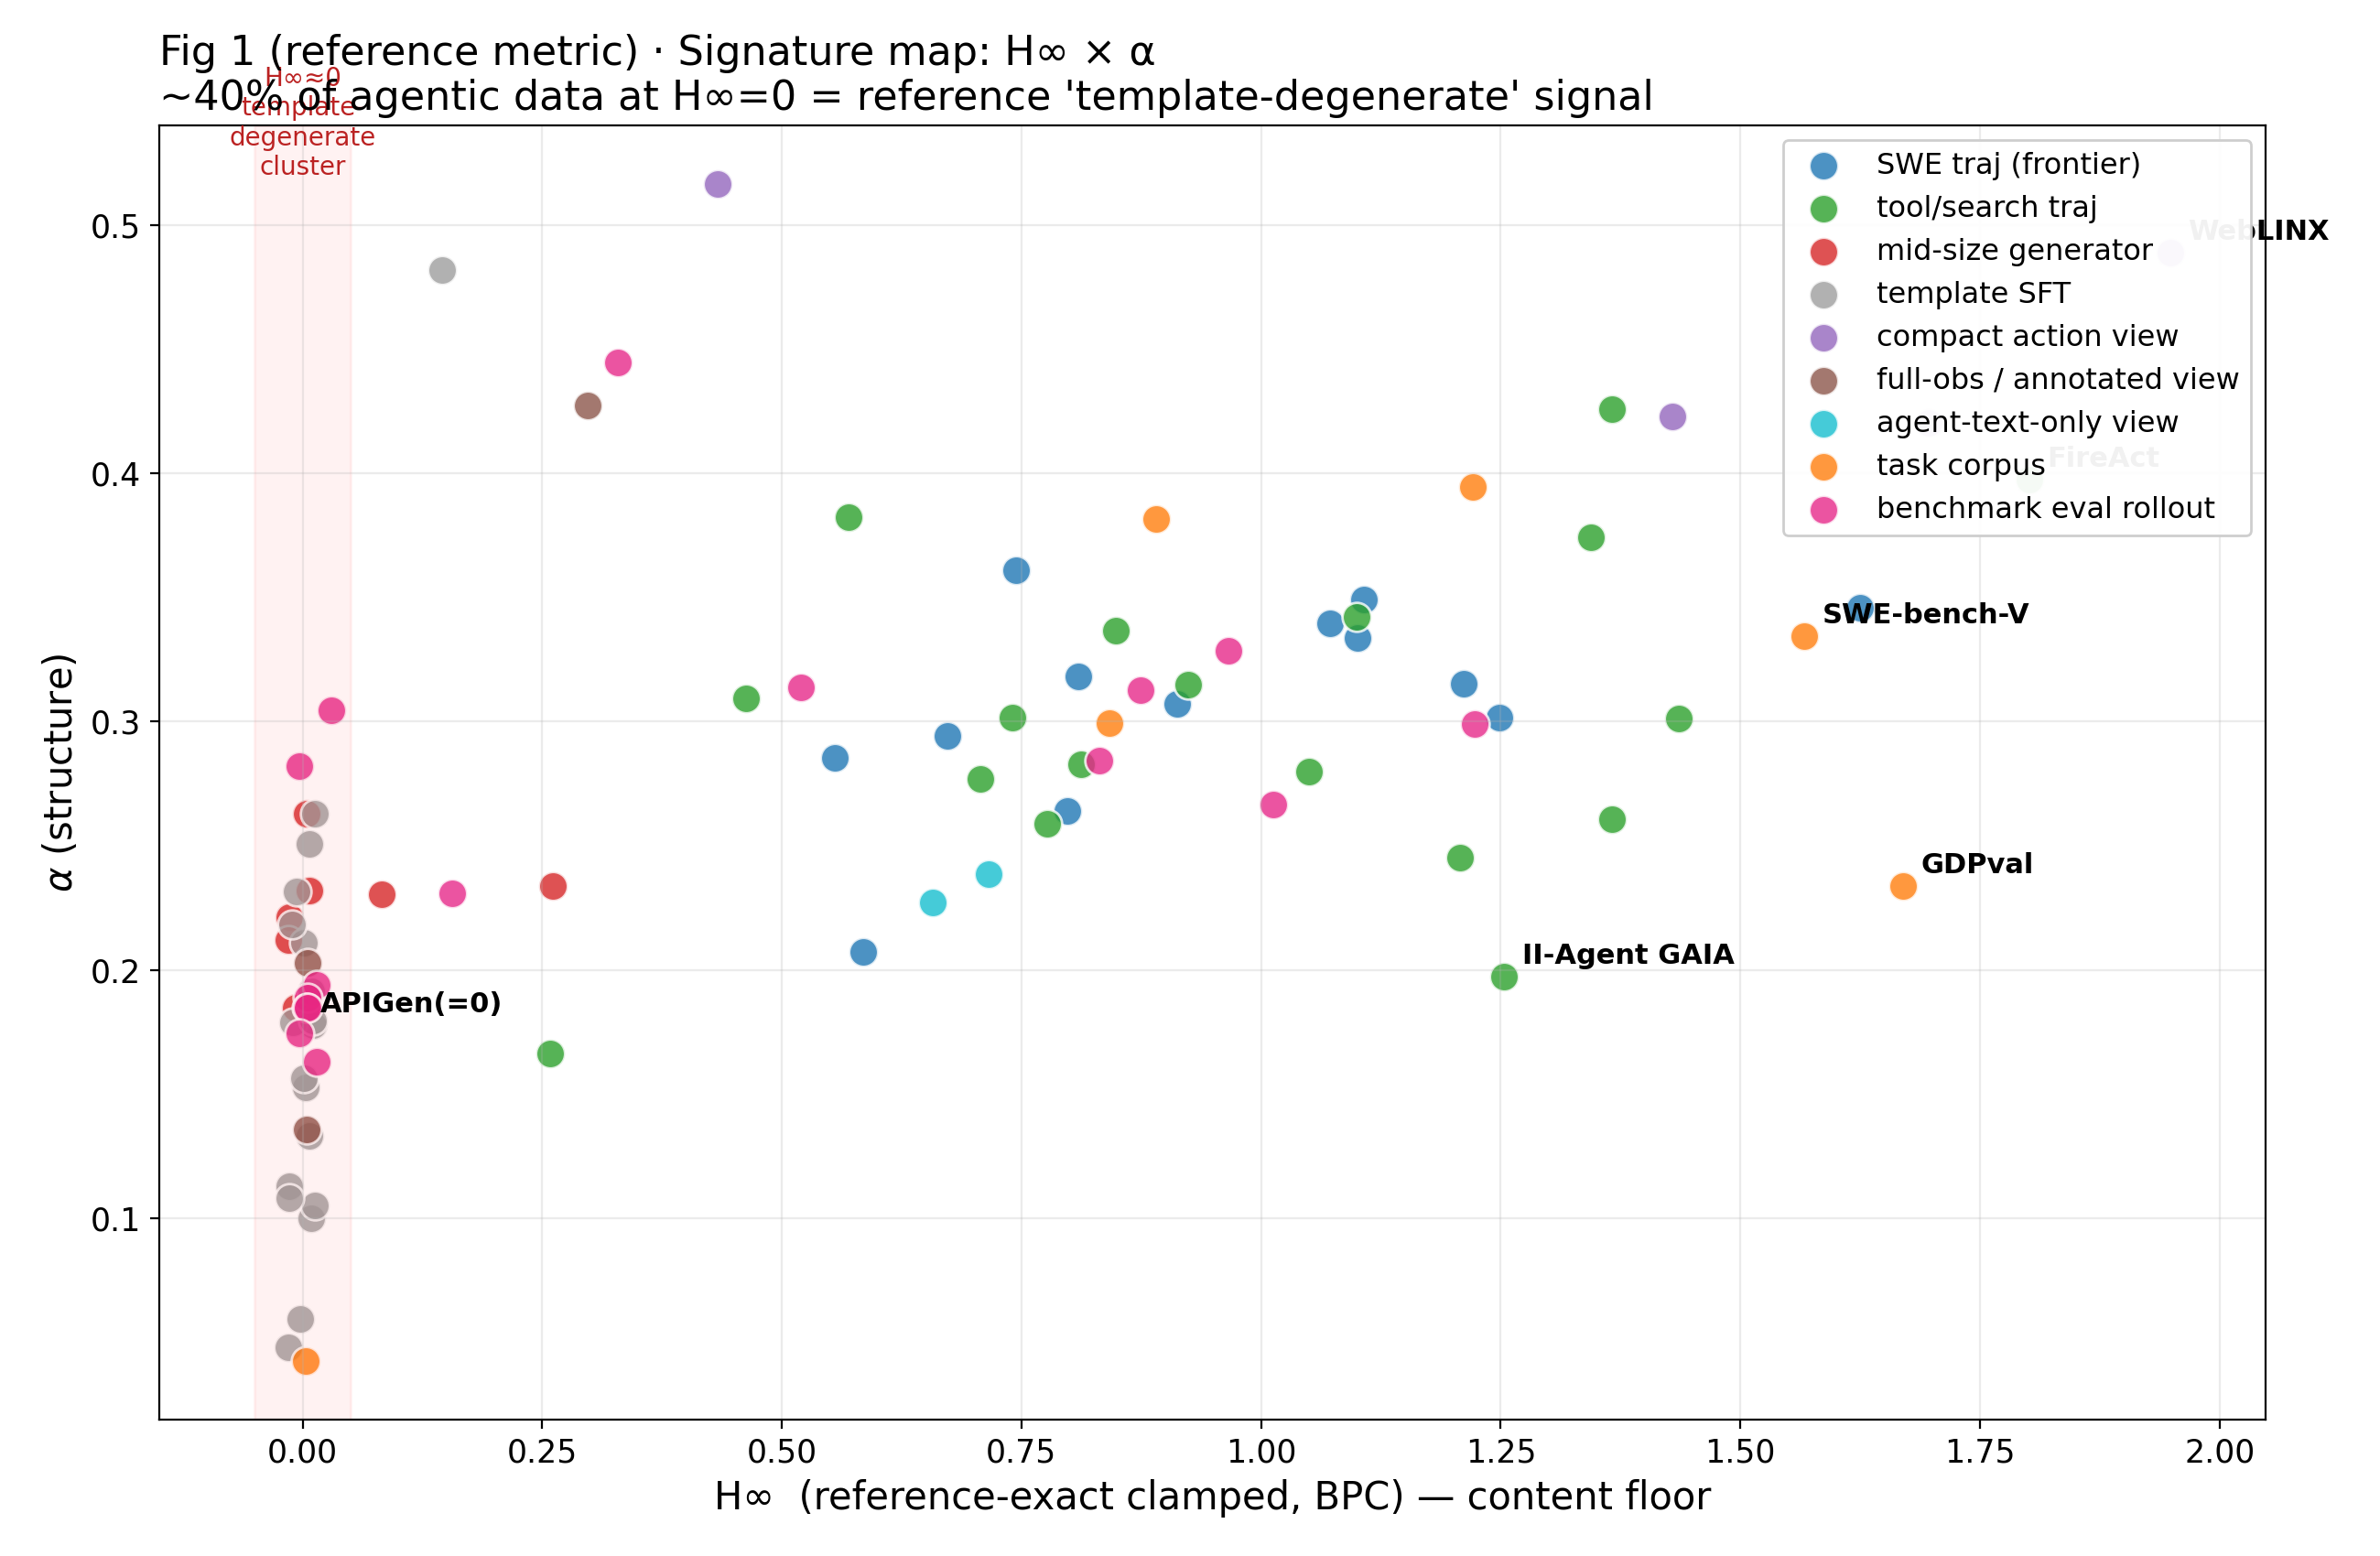
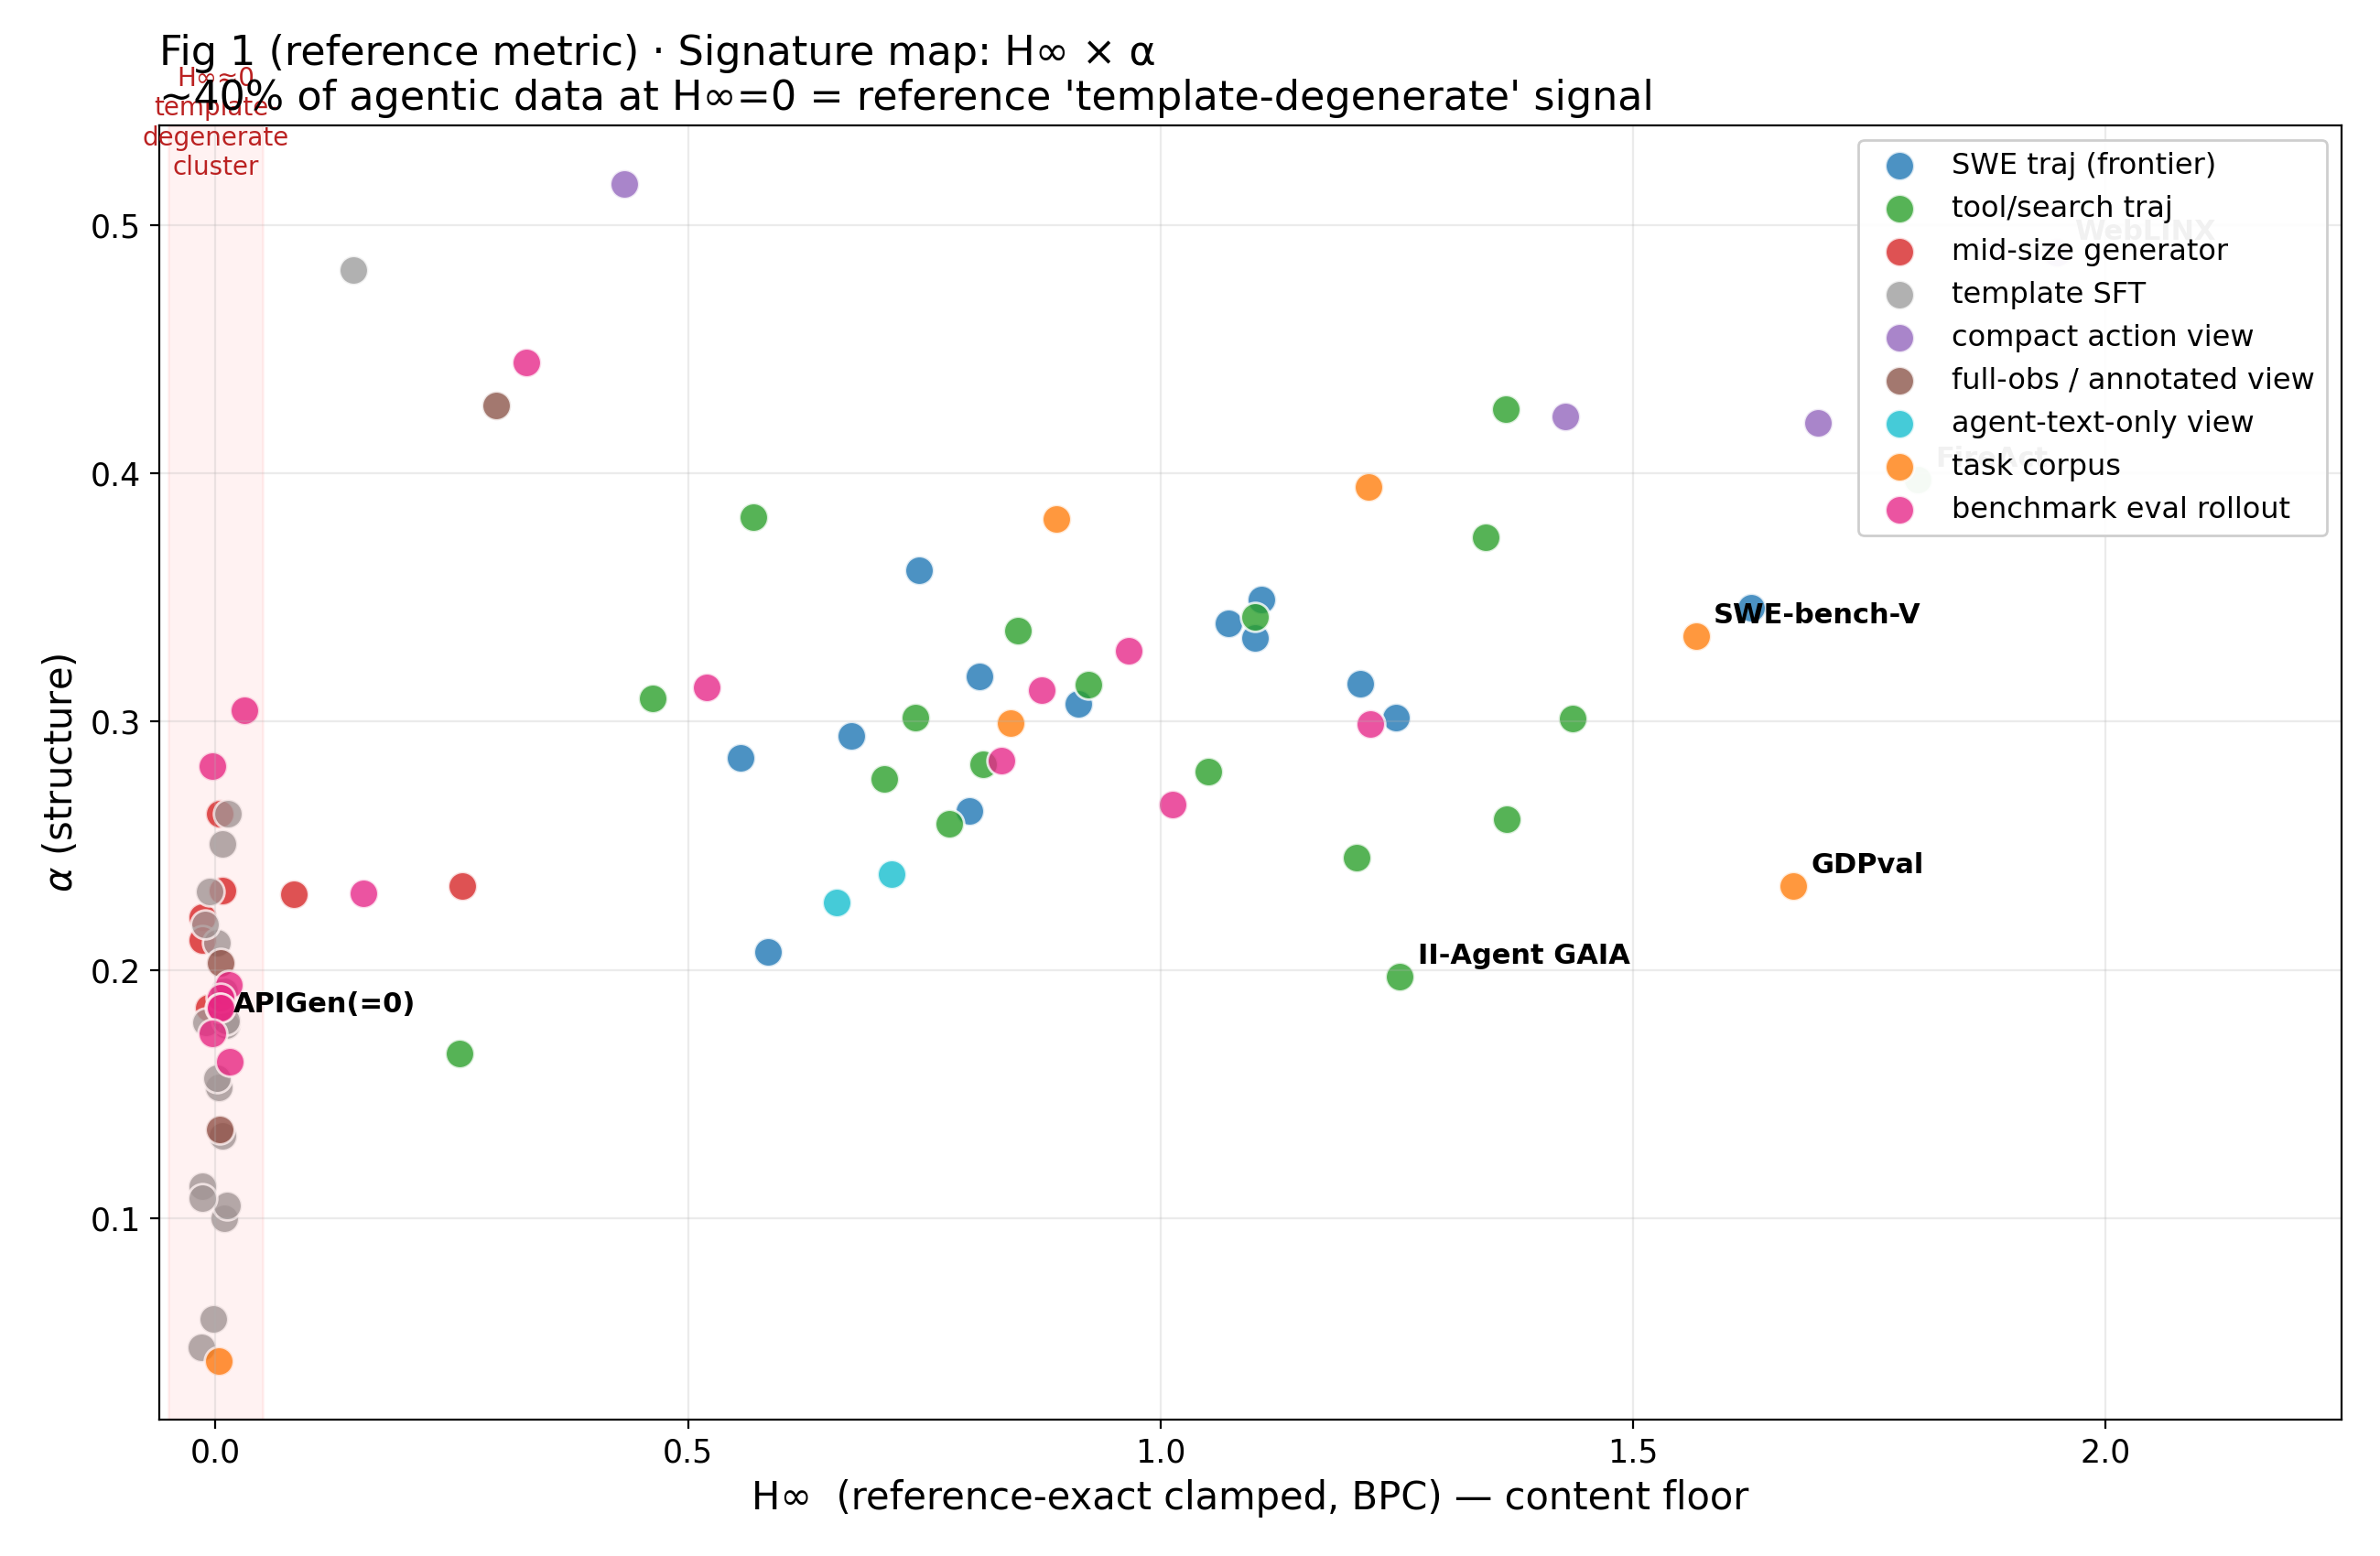
iter131: visual figure inspection (first time viewing rendered PNGs) - fixed fig2-ranking subtitle truncation + fig1-signature WebLINX label clipping (xlim); verified Figure 1 merge map correct; blind regen would have shipped truncated titles

diff --git a/scripts/make_figures_refhinf.py b/scripts/make_figures_refhinf.py
@@ -51,6 +51,7 @@ ANN={"ii-agent-gaia-traj":"II-Agent GAIA","gdpval-tasks":"GDPval","weblinx-actio
 for h,a,cat,s in pts:
     if s in ANN: ax.annotate(ANN[s],(h,a),fontsize=11,fontweight="bold",xytext=(7,5),textcoords="offset points")
 ax.axvspan(-0.05,0.05,color="red",alpha=.05)
+ax.set_xlim(-0.06,2.25)  # room for the WebLINX annotation at H∞≈1.95
 ax.text(0.0,0.52,"H∞≈0\ntemplate-\ndegenerate\ncluster",fontsize=10,color="#b22",ha="center")
 ax.set_xlabel("H∞  (reference-exact clamped, BPC) — content floor"); ax.set_ylabel(r"$\alpha$ (structure)")
 ax.set_title("Fig 1 (reference metric) · Signature map: H∞ × α\n~40% of agentic data at H∞=0 = reference 'template-degenerate' signal",loc="left")
@@ -72,7 +73,7 @@ for yi,(l,s) in zip(y,GEN):
     ax.text(max(v,0)+.02,yi,f"{v:.2f}",va="center",fontweight="bold",fontsize=13)
 ax.set_yticks(list(y)); ax.set_yticklabels([l for l,_ in GEN]); ax.set_xlim(0,2.6)
 ax.set_xlabel("H∞ (reference-exact, BPC) — content floor")
-ax.set_title("Fig 2 (reference metric) · Content ranking by H∞\nsynthetic data spans the full range — ToolAce/crypto content-rich vs APIGen/AgentInstruct at 0: diversity, not the label, decides",loc="left")
+ax.set_title("Fig 2 (reference metric) · Content ranking by H∞\nsynthetic data (synth) spans the full range — diversity decides, not the label",loc="left")
 ax.legend(handles=[plt.Rectangle((0,0),1,1,color=c) for c in ["#2ca02c","#ff7f0e","#9e9e9e"]],
           labels=["content-rich (≥1.0)","mixed (0–1.0)","H∞=0 template-degenerate"],loc="lower right")
 ax.grid(axis="y",visible=False); fig.tight_layout(); fig.savefig(f"{OUT}/fig2_ranking_refhinf.png"); plt.close()

diff --git a/SAMPLES.md b/SAMPLES.md
@@ -322,6 +322,7 @@
 | 67 | 2026-06-08 | **form-vs-choices 训练实验收尾（发现 21）**：双 SFT（template/healthy，Qwen2.5-1.5B，各 30M tok，gpu_requeue ~3h）完成 → held-out 评测。**FORM 证实**（base 0.78→template 0.99/healthy 0.96，SFT 教骨架到顶）；**DECISION 不可判**（三者含 base 全 ~2–3% 贴地，无动态范围 → inconclusive 不过度解读）；首跑评测 harness bug（parser 找 ``` 但格式 JSON，由 base 也贴地识破）修复后复跑得真信号；限制：1.5B/30M 规模小、decision 跨格式、仅确定性子集、template 臂非空（BPC@32K=1.38）。harness 就绪，待 ≥7B + in-format sandbox decision 检查放大重跑。报告 `reports/formchoice_results.md` |
 | 81 | 2026-06-09 | **Single- vs multi-agent serialization → finding 23 (new data type)**: +2 TRAIN rows from `UdeM-Mila-Subagents/swesmith-multi-agent-trajectories` (same SWE-smith tasks, two columns). Single-agent H∞=1.03/47.8 turns vs multi-agent H∞=0.26/10.8 turns; multi-agent orchestration is a form layer (subagent-spawn scaffold pools away). Finding 23 + paper §6 (agent-architecture axis). → 106 active / 112 CSV rows; counts/§5.1/§5.5/§4 + figures + appendix refreshed (swe domain n=40 medH∞ 0.62, above search) | `scripts/score_iter81.py` |
 | 102 | 2026-06-09 | **+1 EVAL_TASK: multilingual SWE task corpus (`SWE-Factory/SWE-Factory-Gym`)**: human-authored GitHub issues+patches across languages (Java/etc., vs Python-centric existing SWE tasks), H∞=1.11/BPC@32K=1.57 — sits in the human-authored SWE-task band (swe-bench-V 1.57, swe-gym 1.22). Grows the under-represented EVAL_TASK side (13→14). Shifted EVAL_TASK median 1.22→1.17 (within noise) — propagated to abstract/§5.1/§5.2/§10/contribution; swe domain 0.59→0.63 (reordered above search). → 110 active / 116 CSV rows. **Workflow note: per-row paper-count churn is now heavy (~15 edits/row); future adds should batch before re-tallying.** |
+| 131 | 2026-06-09 | **Visual figure inspection (never done before — was regenerating blindly) → fixed 2 cosmetic defects**: actually *viewed* the rendered PNGs. (1) Figure 1 (merge map) verified correct — monotonic source decline, role-shaped markers, n=129, α∼const. (2) **fig2-ranking subtitle was truncating off the right edge** (too long for figure width) → trimmed to "synthetic data (synth) spans the full range — diversity decides, not the label" (examples already visible in the bars). (3) **fig1-signature WebLINX annotation (H∞≈1.95) clipped at the plot edge** → added `xlim(-0.06,2.25)` for room. Both render clean now. **Lesson: regenerating figures ≠ verifying them; blind regen would have shipped truncated titles.** No paper-text/registry change (guard 20/20). |
 | 130 | 2026-06-09 | **Figure-currency pass: stale caption catch + made fig2-ranking support the §5.1/§10 finding**: (1) **caught stale Figure 1 caption "n = 99"** — the merge figure auto-titles `n={len(rows)}`=129 but the paper caption was hardcoded at 99 (~30 corpora stale) → fixed to **n = 129** (figure/caption now agree). (2) **Added the content-rich synthetic exceptions to fig2-ranking** (`make_figures_refhinf.py` GEN list): ToolAce 0.90 + crypto 0.95 now plotted high, with APIGen/AgentInstruct at 0, all tagged "(synth)" — the bar chart now *visualizes* "synthetic data spans the full range; diversity not the label decides" (§5.1/§10). Updated subtitle + referenced it from §5.1 so the supplementary figure has a purpose. Guard 20/20, no registry change. |
 | 129 | 2026-06-09 | **Comprehensive numeric re-audit (post-churn, iters 121–128) → registry clean, 1 descriptive-range fix**: full recompute-and-diff of every table against live data — **source table (6 rows), domain table (12 rows), §5.2 within-domain table (4), §5.1 correlation block (α/BPC/Hurst/length), α band, ALL-median 0.43, content gap, abstract source-median list — ALL consistent**. The careful per-iteration propagation + guard held across 8 churny iterations. **Only stale value: §5.4 healthy-frontier cluster H∞ range "0.57–1.63"** — frontier grew to include the CLI sessions (gpt-5.5 1.93, opus48 1.73; discussed at line 175) so the 1.63 upper bound was internally inconsistent → fixed to **0.57–1.93 (topped by frontier CLI sessions)**. This is the class the count-guard can't catch (computed ranges in prose). No registry change (guard 20/20). |
 | 128 | 2026-06-09 | **Robustness audit caught an overclaim → "exception that proves the rule" (§5.2)**: re-checked the within-domain content-gap claim (abstract/§8/§10 all say it reproduces "within every domain that has both cohorts"). **Found a counterexample the iter-125 crypto add silently created**: `safety` now has both a TRAIN cohort (crypto 0.95 + app1 0.0 → median 0.48) and an EVAL_TASK cohort (nemotron-injection 0.0), and the gap **reverses** (TRAIN > EVAL_TASK). **But the reversal confirms the thesis**: safety's eval-task is the registry's *only synthetic (non-human) eval cohort* (nemotron indirect-prompt-injection, templated, H∞=0) — the moment the "eval" side is machine-generated it collapses to the floor like training data. Rewrote §5.2 + propagated the precise qualifier to abstract/§8/§10 ("within every domain *whose eval cohort is human-authored*; the lone synthetic-eval domain reverses"). The 4 human-authored-eval domains (gui/web/swe/mixed) still hold 4/4. **A recent add quietly weakened a headline robustness claim; the audit turned it into stronger evidence.** No registry change (guard 20/20). |